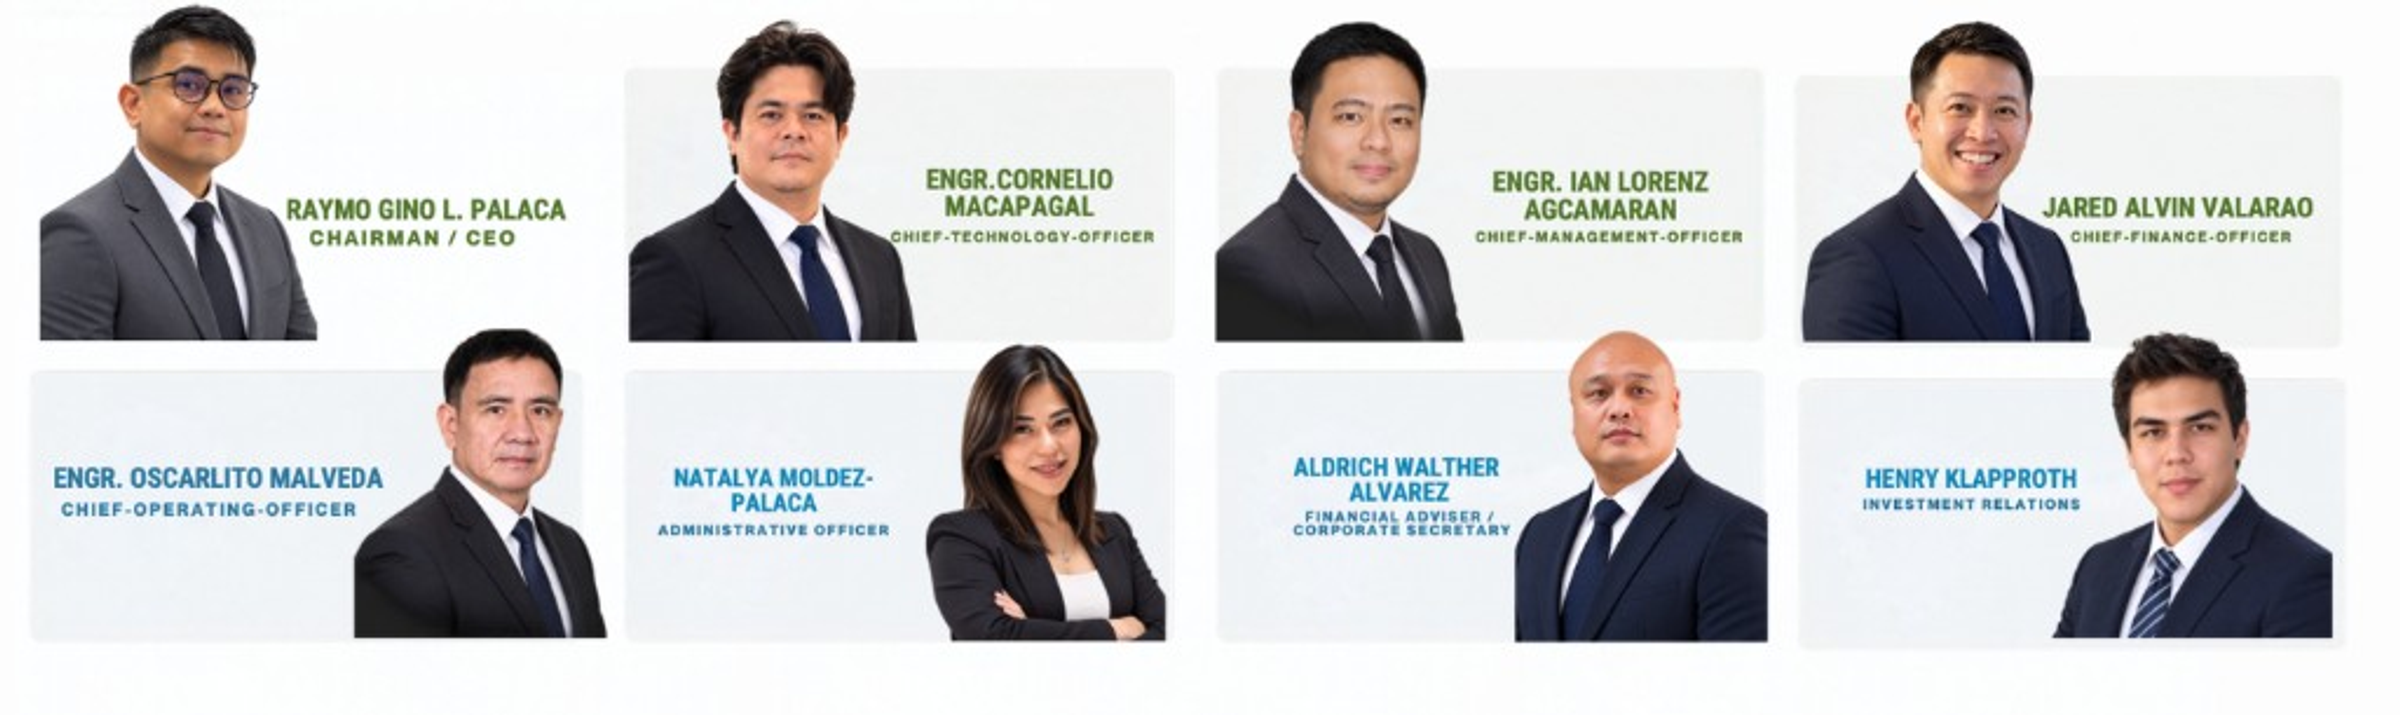
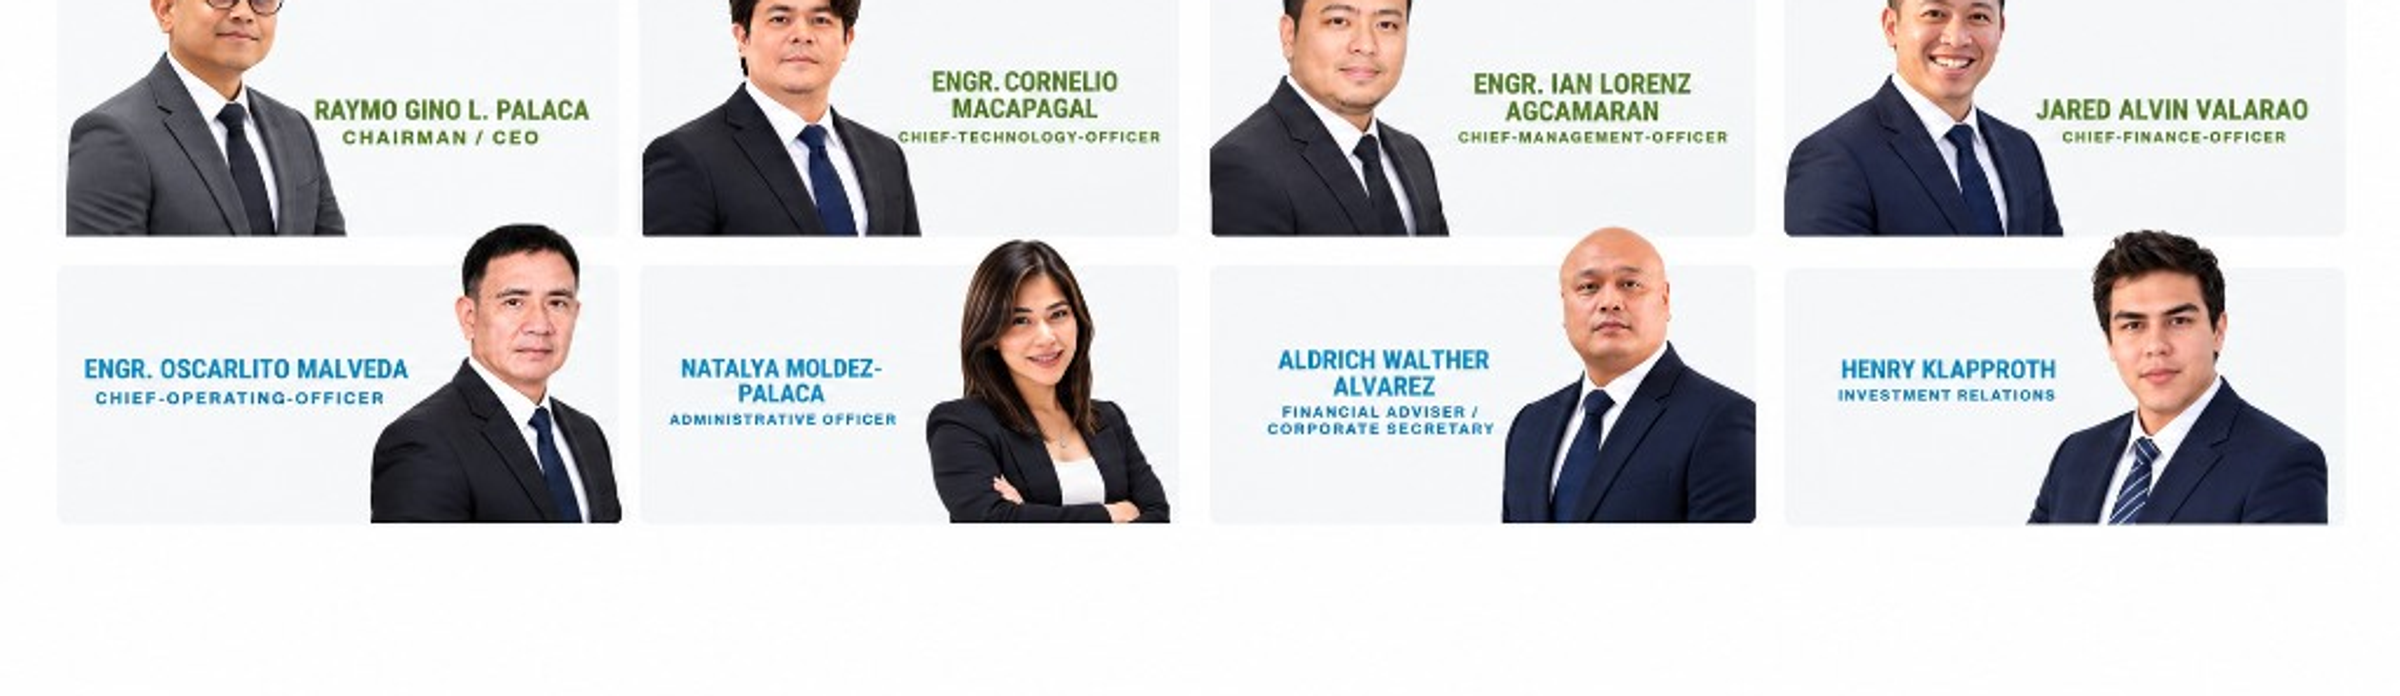
fixing teammmms

diff --git a/src/components/about/TeamSection.tsx b/src/components/about/TeamSection.tsx
@@ -22,6 +22,31 @@ function initials(name: string) {
     .toUpperCase();
 }
 
+function slugFromName(name: string) {
+  return name
+    .toLowerCase()
+    .replace(/^engr\.\s*/i, "")
+    .replace(/[^a-z0-9]+/g, "-")
+    .replace(/^-|-$/g, "");
+}
+
+/** Map leadership names → company-profile mobile card slices */
+const MOBILE_CARD: Record<string, string> = {
+  "raymo-gino-l-palaca": "/team/mobile/raymo-gino-palaca.png",
+  "cornelio-macapagal": "/team/mobile/cornelio-macapagal.png",
+  "ian-lorenz-agcamaran": "/team/mobile/ian-lorenz-agcamaran.png",
+  "jared-alvin-valarao": "/team/mobile/jared-alvin-valarao.png",
+  "oscarlito-malveda": "/team/mobile/oscarlito-malveda.png",
+  "natalya-moldez-palaca": "/team/mobile/natalya-moldez-palaca.png",
+  "aldrich-walther-alvarez": "/team/mobile/aldrich-walther-alvarez.png",
+  "henry-klapproth": "/team/mobile/henry-klapproth.png",
+};
+
+function mobileCardSrc(member: TeamMember) {
+  const key = slugFromName(member.name);
+  return MOBILE_CARD[key] ?? null;
+}
+
 /** Default company-profile board — exact visual from the brand deck */
 function usesDefaultBoard(members: TeamMember[]) {
   if (members.length < 8) return false;
@@ -64,19 +89,48 @@ export function TeamSection({ members }: { members: TeamMember[] }) {
         </FadeIn>
 
         {showBoard ? (
-          <FadeIn delay={0.06}>
-            <div className="relative w-full overflow-hidden">
-              <Image
-                src="/team/leadership-exact-2x.png"
-                alt="Novaterra leadership team"
-                width={2400}
-                height={715}
-                className="h-auto w-full"
-                sizes="(max-width: 1200px) 100vw, 1100px"
-                quality={95}
-                priority
-              />
+          <>
+            {/* Desktop / tablet: full company-profile board */}
+            <FadeIn delay={0.06}>
+              <div className="relative hidden w-full overflow-hidden md:block">
+                <Image
+                  src="/team/leadership-exact-2x.png"
+                  alt="Novaterra leadership team"
+                  width={2400}
+                  height={715}
+                  className="h-auto w-full"
+                  sizes="(max-width: 1200px) 100vw, 1100px"
+                  quality={95}
+                  priority
+                />
+              </div>
+            </FadeIn>
+
+            {/* Mobile: one card per row */}
+            <div className="flex flex-col gap-3 md:hidden">
+              {published.map((member, i) => {
+                const card = mobileCardSrc(member);
+                return (
+                  <FadeIn key={`${member.name}-${member.sort_order}`} delay={i * 0.04}>
+                    {card ? (
+                      <Image
+                        src={card}
+                        alt={`${member.name} — ${member.title}`}
+                        width={1000}
+                        height={560}
+                        className="h-auto w-full rounded-2xl"
+                        sizes="100vw"
+                        quality={95}
+                        priority={i < 2}
+                      />
+                    ) : (
+                      <MemberHtmlCard member={member} index={i} />
+                    )}
+                  </FadeIn>
+                );
+              })}
             </div>
+
             <ul className="sr-only">
               {published.map((m) => (
                 <li key={m.name}>
@@ -84,70 +138,70 @@ export function TeamSection({ members }: { members: TeamMember[] }) {
                 </li>
               ))}
             </ul>
-          </FadeIn>
+          </>
         ) : (
           <div className="mt-2 grid grid-cols-1 gap-3 sm:grid-cols-2 lg:grid-cols-4 lg:gap-4">
-            {published.map((member, i) => {
-              const topRow = i < 4;
-              return (
-                <FadeIn key={`${member.name}-${member.sort_order}`} delay={i * 0.03}>
-                  <article
-                    className={cn(
-                      "relative flex h-[140px] items-end overflow-visible rounded-2xl bg-[#eef1f4]",
-                      topRow ? "flex-row" : "flex-row-reverse",
-                    )}
-                  >
-                    <div
-                      className={cn(
-                        "relative z-10 h-[148px] w-[42%] shrink-0",
-                        topRow ? "-ml-0" : "-mr-0",
-                      )}
-                    >
-                      {member.photo_url ? (
-                        <Image
-                          src={member.photo_url}
-                          alt={member.name}
-                          fill
-                          className="object-contain object-bottom"
-                          sizes="160px"
-                          quality={95}
-                        />
-                      ) : (
-                        <div className="flex h-full w-full items-center justify-center font-display text-lg font-bold text-forest">
-                          {initials(member.name)}
-                        </div>
-                      )}
-                    </div>
-                    <div
-                      className={cn(
-                        "relative z-0 flex min-w-0 flex-1 flex-col justify-center px-3 pb-5 pt-4",
-                        topRow ? "items-start text-left" : "items-start text-left",
-                      )}
-                    >
-                      <h3
-                        className={cn(
-                          "font-sans text-[0.7rem] font-bold uppercase leading-[1.15] tracking-wide sm:text-[0.72rem]",
-                          topRow ? "text-[#2f4a28]" : "text-[#1a6bb5]",
-                        )}
-                      >
-                        {member.name}
-                      </h3>
-                      <p
-                        className={cn(
-                          "mt-1 text-[0.58rem] font-semibold uppercase leading-snug tracking-[0.02em] sm:text-[0.62rem]",
-                          topRow ? "text-[#2f4a28]/80" : "text-[#0f3d6e]",
-                        )}
-                      >
-                        {formatTitle(member.title)}
-                      </p>
-                    </div>
-                  </article>
-                </FadeIn>
-              );
-            })}
+            {published.map((member, i) => (
+              <FadeIn key={`${member.name}-${member.sort_order}`} delay={i * 0.03}>
+                <MemberHtmlCard member={member} index={i} />
+              </FadeIn>
+            ))}
           </div>
         )}
       </div>
     </section>
+  );
+}
+
+function MemberHtmlCard({
+  member,
+  index,
+}: {
+  member: TeamMember;
+  index: number;
+}) {
+  const topRow = index < 4;
+  return (
+    <article
+      className={cn(
+        "relative flex h-[140px] items-end overflow-visible rounded-2xl bg-[#eef1f4]",
+        topRow ? "flex-row" : "flex-row-reverse",
+      )}
+    >
+      <div className="relative z-10 h-[148px] w-[42%] shrink-0">
+        {member.photo_url ? (
+          <Image
+            src={member.photo_url}
+            alt={member.name}
+            fill
+            className="object-contain object-bottom"
+            sizes="160px"
+            quality={95}
+          />
+        ) : (
+          <div className="flex h-full w-full items-center justify-center font-display text-lg font-bold text-forest">
+            {initials(member.name)}
+          </div>
+        )}
+      </div>
+      <div className="relative z-0 flex min-w-0 flex-1 flex-col justify-center px-3 pb-5 pt-4">
+        <h3
+          className={cn(
+            "font-sans text-[0.7rem] font-bold uppercase leading-[1.15] tracking-wide sm:text-[0.72rem]",
+            topRow ? "text-[#2f4a28]" : "text-[#1a6bb5]",
+          )}
+        >
+          {member.name}
+        </h3>
+        <p
+          className={cn(
+            "mt-1 text-[0.58rem] font-semibold uppercase leading-snug tracking-[0.02em] sm:text-[0.62rem]",
+            topRow ? "text-[#2f4a28]/80" : "text-[#0f3d6e]",
+          )}
+        >
+          {formatTitle(member.title)}
+        </p>
+      </div>
+    </article>
   );
 }
